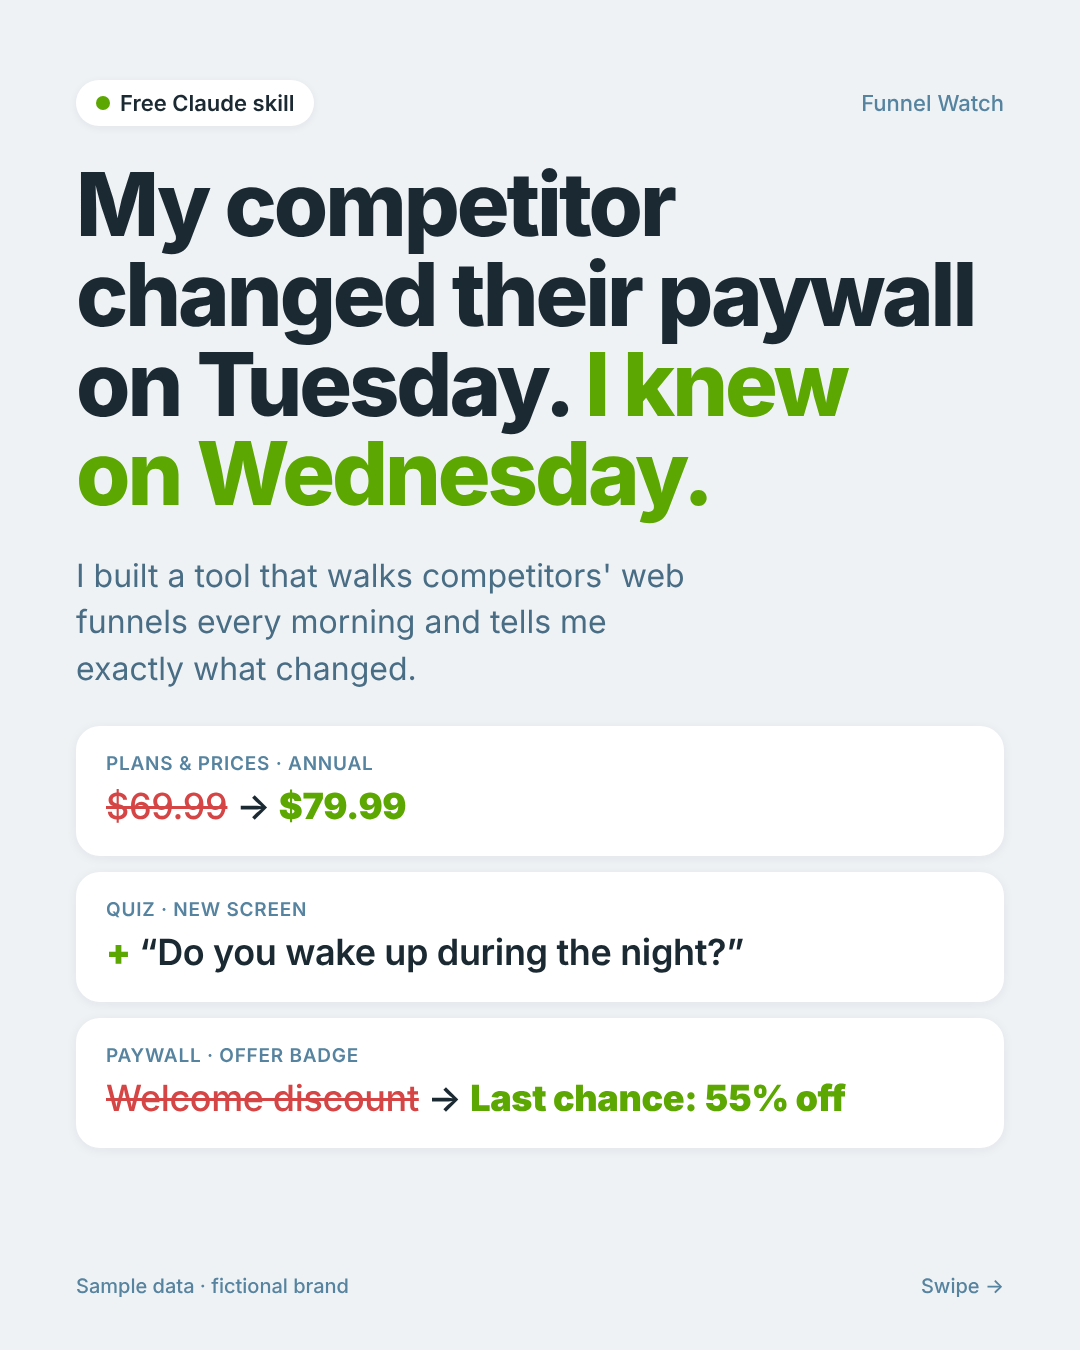
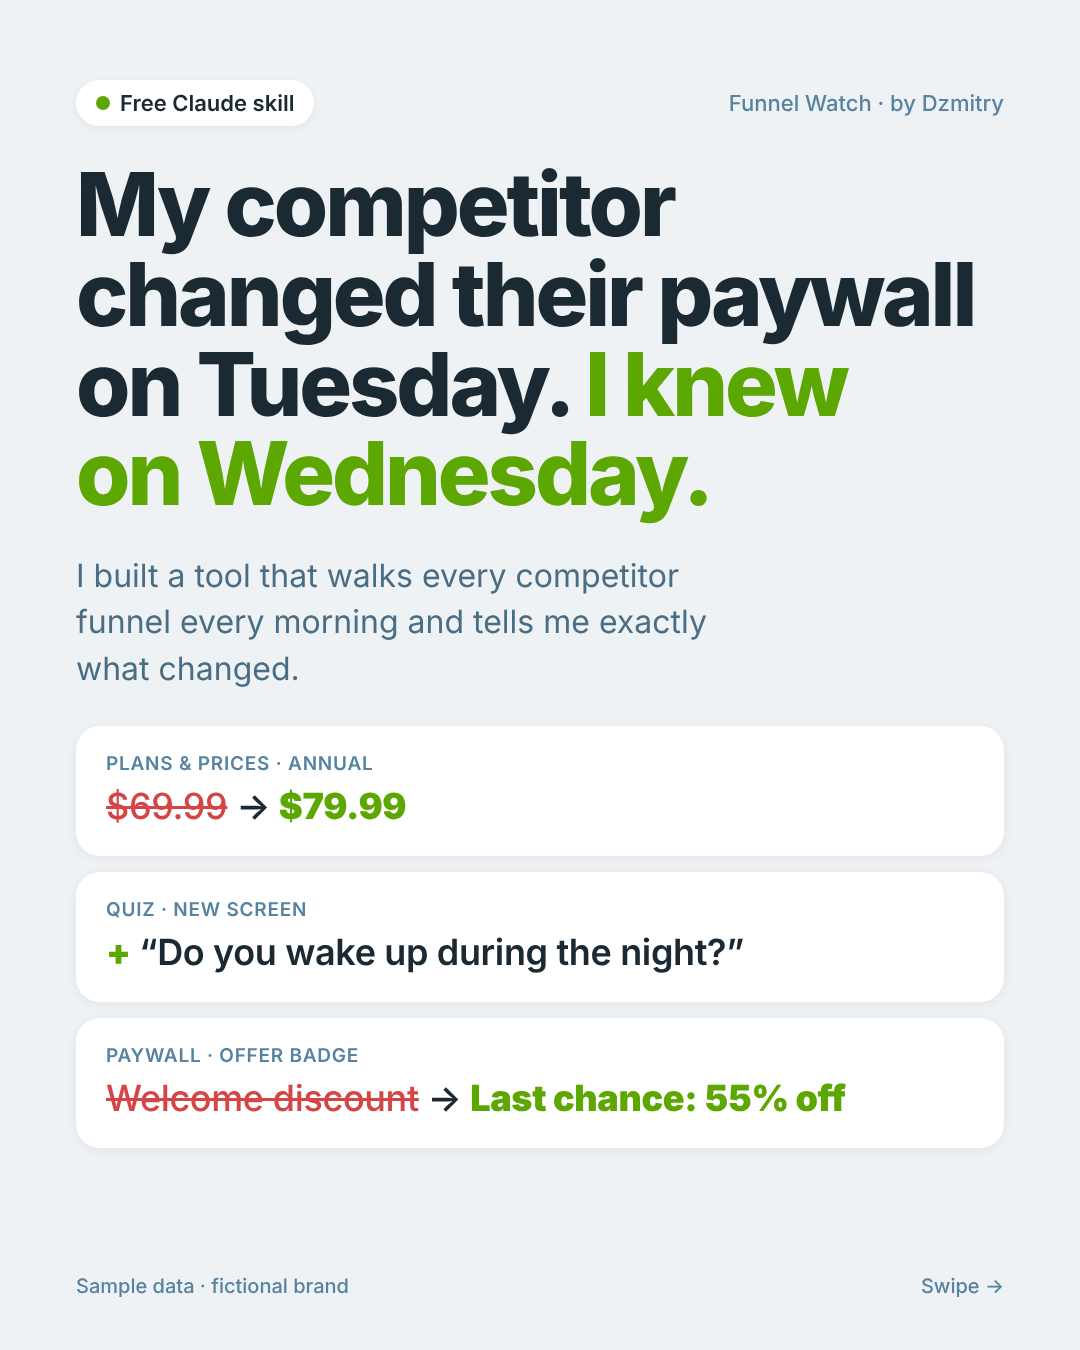
Describe multi-funnel tracking: every funnel of every competitor

Changed region(s): [[0.0917, 0.4044, 0.6417, 0.5289], [0.6722, 0.0622, 0.9472, 0.0933]]

diff --git a/README.md b/README.md
@@ -1,6 +1,6 @@
 # Funnel Watch
 
-**A mystery shopper for web2app funnels.** Every morning Claude walks your competitors' quiz funnels, stops at the paywall, and tells you exactly what changed: quiz screens and copy, funnel pages, plans, prices, trials, discounts, upsells and A/B variants.
+**A mystery shopper for web2app funnels.** Every morning Claude walks every funnel of every competitor you track, all the way to the paywall, and tells you exactly what changed: quiz screens and copy, funnel pages, plans, prices, trials, discounts, upsells and A/B variants.
 
 Free. No code, no server. Runs inside Claude.
 Created by **Dzmitry** · [CC BY-NC 4.0](LICENSE)
@@ -40,7 +40,7 @@ Use the watchlist on your tracker page. No need to touch the scheduled task.
 
 | | |
 |---|---|
-| **Watchlist** | Name + funnel URL. The link from their ads or just the quiz domain. |
+| **Watchlist** | Every funnel of every competitor. One brand often runs several quizzes for different angles (sleep, stress, weight loss): add each entry URL, from their ads or just the quiz domain. |
 | **Change feed** | Every change as "before → after", per competitor, per day. |
 | **Plans & prices** | The full plan table the paywall serves to your country. |
 | **Funnel map & quiz steps** | Every page and screen the bot went through. |
@@ -48,7 +48,9 @@ Use the watchlist on your tracker page. No need to touch the scheduled task.
 
 ![Change feed](docs/funnel-watch-4.png)
 
-## Works on any quiz funnel
+## Every funnel, any quiz
+Funnel Watch checks all the funnels on your watchlist in one run, so one competitor's sleep funnel, stress funnel and weight-loss funnel are each tracked separately.
+
 A generic walker handles option screens, multi-selects, info screens, height/weight/age inputs, name and email gates, cookie banners and marketing pop-ups. On funnel builders it recognises, it also reads the funnel's own config: timeout prices, exit discounts, downsells, upsells and every quiz branch, not only the one it walked.
 
 ## Good to know

diff --git a/funnel-watch/README.md b/funnel-watch/README.md
@@ -1,6 +1,6 @@
 # Funnel Watch — a Claude skill
 
-Track competitors' web quiz funnels and paywalls every day, and get told what changed: quiz steps and copy, funnel pages, plans, prices, trials, A/B variants.
+Track every web quiz funnel and paywall of every competitor, every day, and get told what changed: quiz steps and copy, funnel pages, plans, prices, trials, A/B variants.
 
 ## What you get
 
